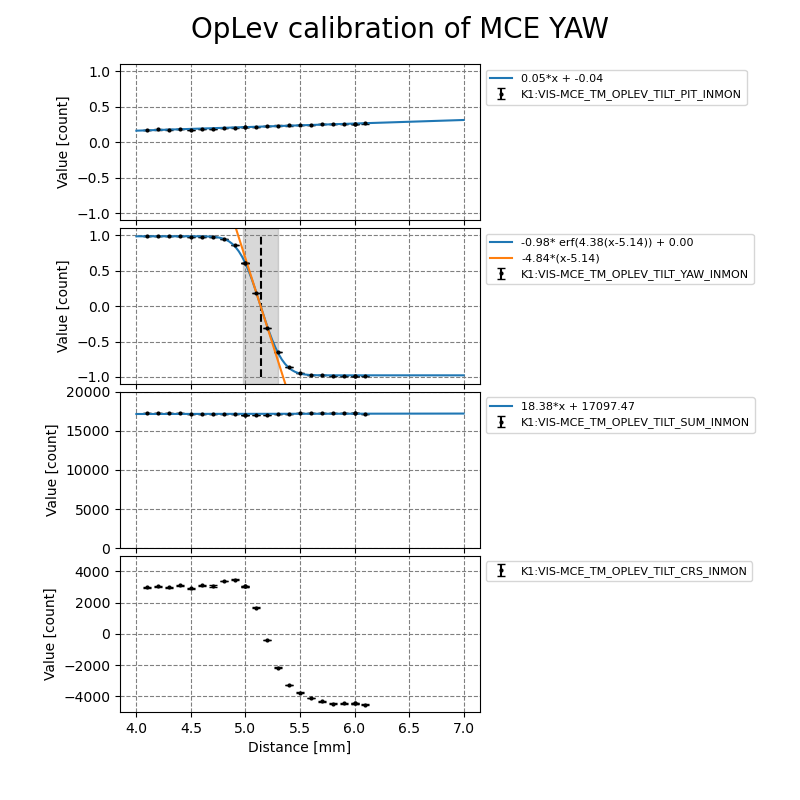
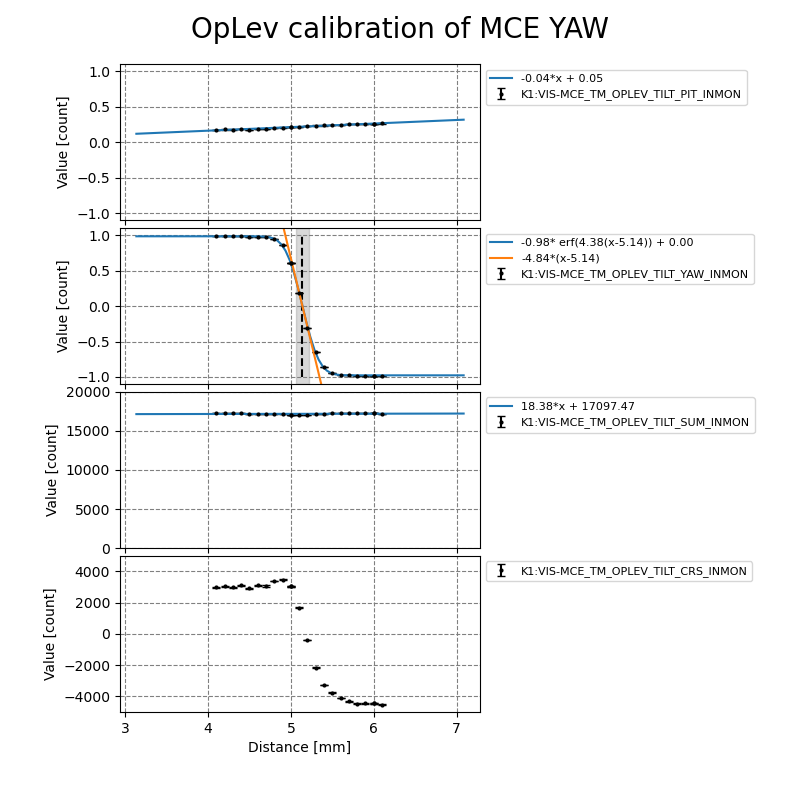
autocommissioning: Update plot

diff --git a/common/scripts/autocommissioning/oplev/calibration.py b/common/scripts/autocommissioning/oplev/calibration.py
@@ -48,57 +48,47 @@ def calibration(output,show=False):
                          markersize=2,capsize=3)
             #
             _df = df
+            x = _df['Disp'].values            
+            _ave = x.mean()            
+            _x = np.arange(_ave-2,_ave+2,0.05)
+            y = _df[_name[n]+'.mean'].values            
             if dof not in _name[n]:
                 if 'SUM' not in _name[n] and 'CRS' not in _name[n]:
                     func = lambda x,a,b: a+b*x
-                    x = _df['Disp'].values
-                    y = _df[_name[n]+'.mean'].values
                     slope = (y[-1]-y[0])/(x[-1]-x[0])
-                    print(x)
-                    print(slope,(y[-1]-y[0]),(x[-1]-x[0]))
                     ini_param = np.array([slope,0.0])
                     popt, pcov = curve_fit(func,x,y,p0=ini_param)
-                    _x = np.linspace(int(x.min()),int(x.max())+1,100)
-                    a,b = popt
-                    label = '{0:3.2f}*x + {1:3.2f}'.format(b,a)
+                    label = '{0:3.2f}*x + {1:3.2f}'.format(*popt)
                     _ax.plot(_x,func(_x,*popt),label=label)
             if dof in _name[n]:
+                # fit error func
                 func = lambda x,a,b,c,d: a*scipy.special.erf(b*(x-c)) + d
-                x = _df['Disp']
-                # bounds = [[-1, -5, -20, -2],
-                #           [+1, +5, +20, +2]]
-                # popt, pcov = curve_fit(func,x,_df[_name[n]+'.mean'],bounds=bounds)
-                y = _df[_name[n]+'.mean'].values                
                 if (y[-1]-y[0])>0:
                     ini_param = np.array([-1.0,-4,x.mean(),0.0])
                 else:
                     ini_param = np.array([-1.0,+5,x.mean(),0.0])
-
-                print(ini_param)                    
                 popt, pcov = curve_fit(func,x,y,p0=ini_param)
-                print(popt)
                 a,b,c,d = popt
-                _x = np.linspace(int(x.min()),int(x.max())+1,100)
-                #_x = x
-                label = '{0:3.2f}* erf({1:3.2f}(x-{2:3.2f})) + {3:3.2f}'.format(a,b,c,d)
+                label = '{0:3.2f}* erf({1:3.2f}(x-{2:3.2f})) + {3:3.2f}'.format(*popt)
                 _ax.plot(_x,func(_x,*popt),label=label)
+                # fit linear
                 func = lambda x,a,b,c: a*b*(x-c)*2/np.sqrt(np.pi)
                 slope_inv = a*b*2/np.sqrt(np.pi)
                 slope = 1./slope_inv
                 label = '{0:3.2f}*(x-{1:3.2f})'.format(slope_inv,c)
                 _ax.plot(_x,func(_x,a,b,c),label=label)
-                sigma = 1/b*np.sqrt(2)
-                linrange = sigma/2 #?
-                #print('Beam radius is {0:3.2f} [mm]?.'.format(sigma))
+                sigma = 1/(abs(b)*np.sqrt(2))
+                radius = 2*sigma
+                width = 2*radius
+                linrange = sigma/2
+                print('{1}_{2}, Beam width(1/e^2) is {0:3.2f} [mm]?.'.format(width,optic,dof))
                 #print('Linear range is {0:3.2f} [mm]?.'.format(linrange))                
                 _ax.vlines(x=c,ymin=-1,ymax=1,color='black',linestyle='--')                
                 _ax.axvspan(c-linrange,c+linrange,color='gray',alpha=0.3)
                 
             if 'SUM' in _name[n]:
                 func = lambda x,a,b: a+b*x
-                x = _df['Disp']
                 popt, pcov = curve_fit(func,x,_df[_name[n]+'.mean'])
-                _x = np.linspace(int(x.min()),int(x.max())+1,100)            
                 a,b = popt
                 label = '{0:3.2f}*x + {1:3.2f}'.format(b,a)
                 _ax.plot(_x,func(_x,*popt),label=label)   
@@ -125,10 +115,11 @@ def calibration(output,show=False):
     
 if __name__=='__main__':
     #plot('./mco_yaw.txt')
-    calibration('./data/MCO_TM_OPLEV_TILT_YAW.txt',show=True)                
-    calibration('./data/MCI_TM_OPLEV_TILT_PIT.txt',show=True)            
+    calibration('./data/MCO_TM_OPLEV_TILT_YAW.txt',show=True)
+    calibration('./data/MCO_TM_OPLEV_TILT_PIT.txt',show=True)                    
     calibration('./data/MCI_TM_OPLEV_TILT_YAW.txt',show=True)
-    calibration('./data/MCE_TM_OPLEV_TILT_PIT.txt',show=True)
-    calibration('./data/MCE_TM_OPLEV_TILT_YAW.txt',show=True)        
+    calibration('./data/MCI_TM_OPLEV_TILT_PIT.txt',show=True)                
+    calibration('./data/MCE_TM_OPLEV_TILT_YAW.txt',show=True)
+    calibration('./data/MCE_TM_OPLEV_TILT_PIT.txt',show=True)    
     #calibration('mce_yaw.txt')
     #calibration('mce_pit.txt')
